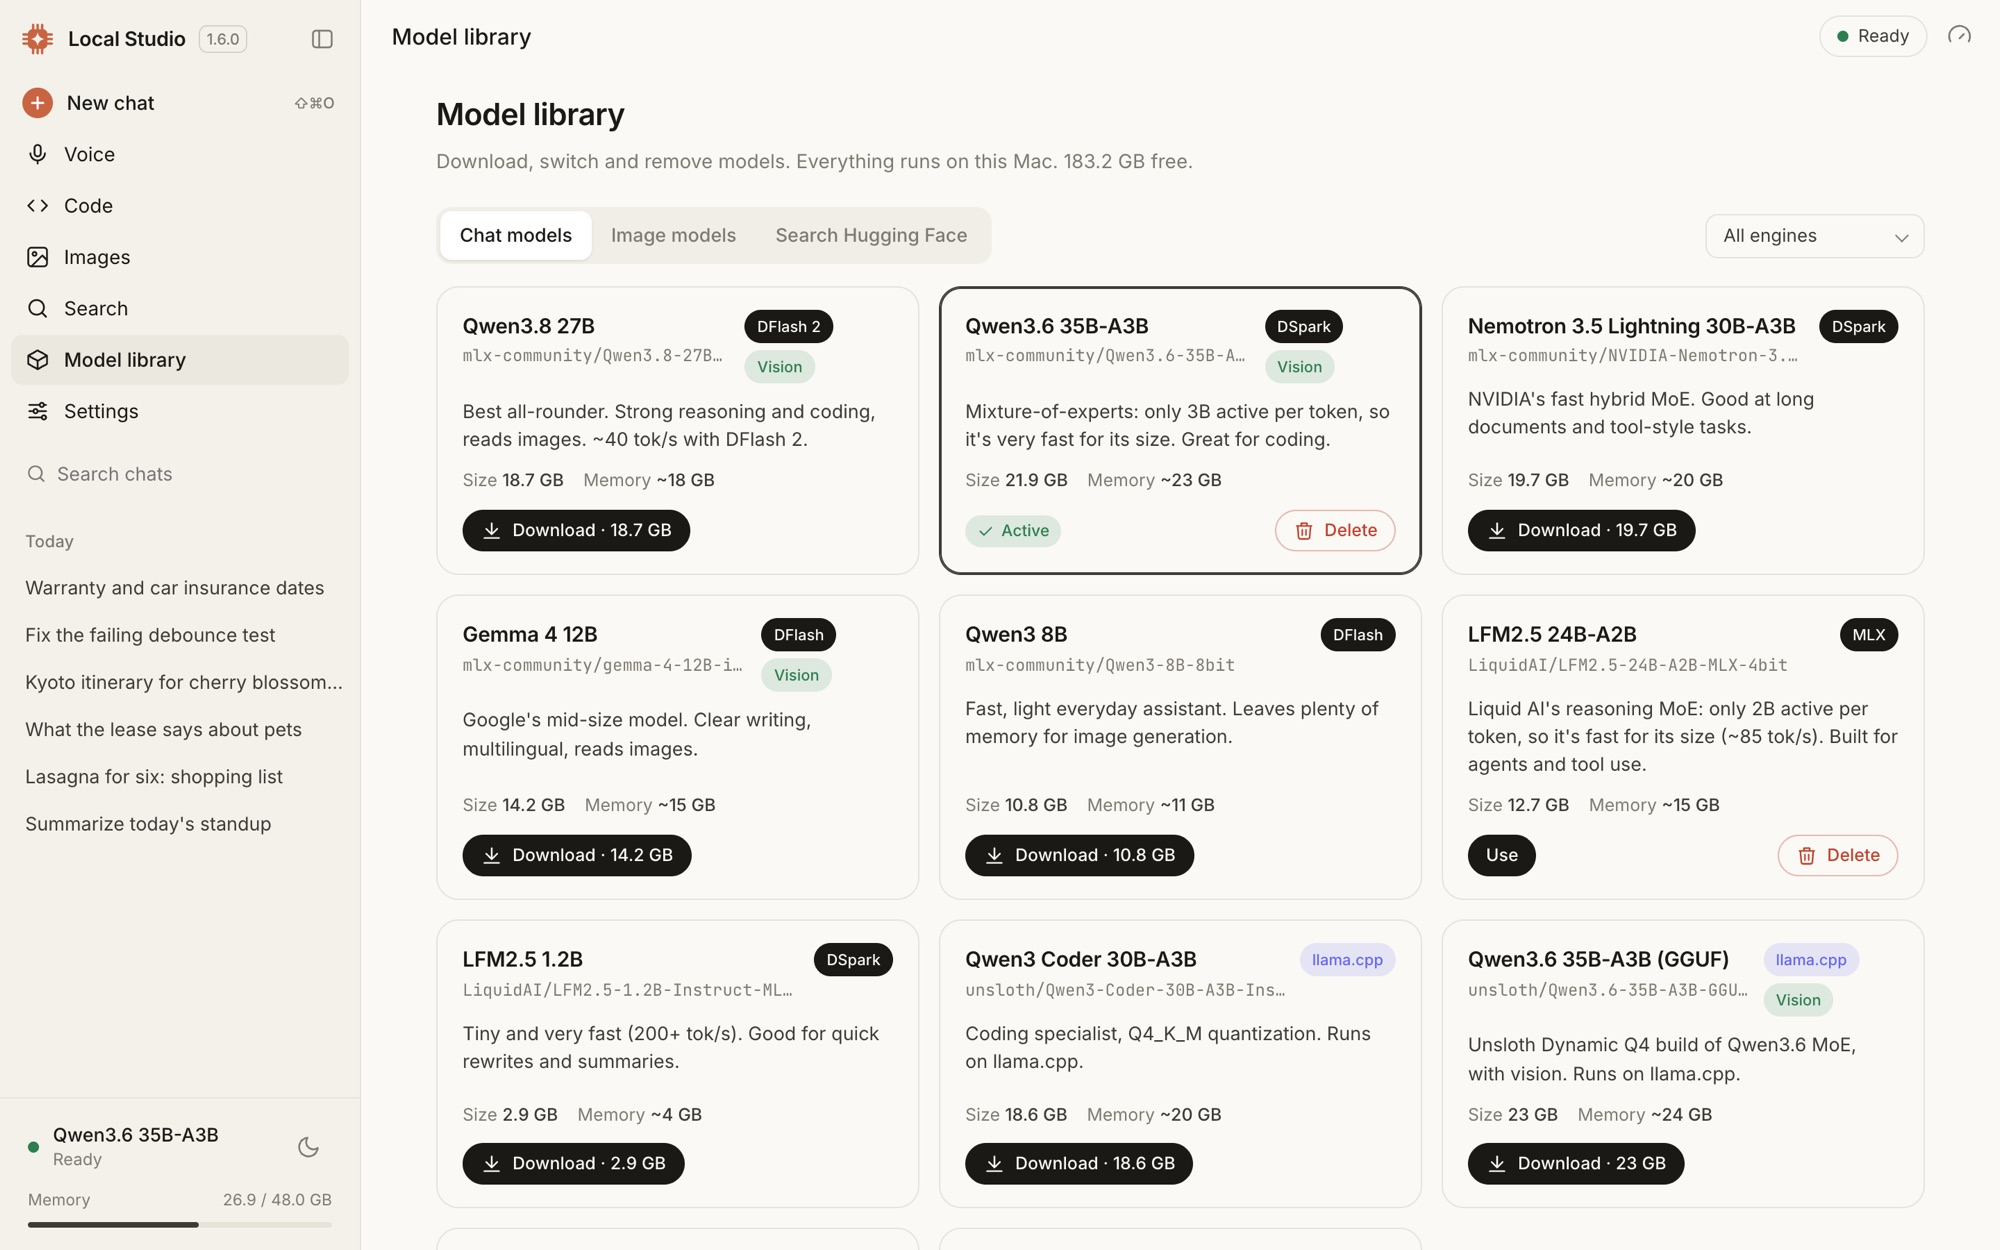
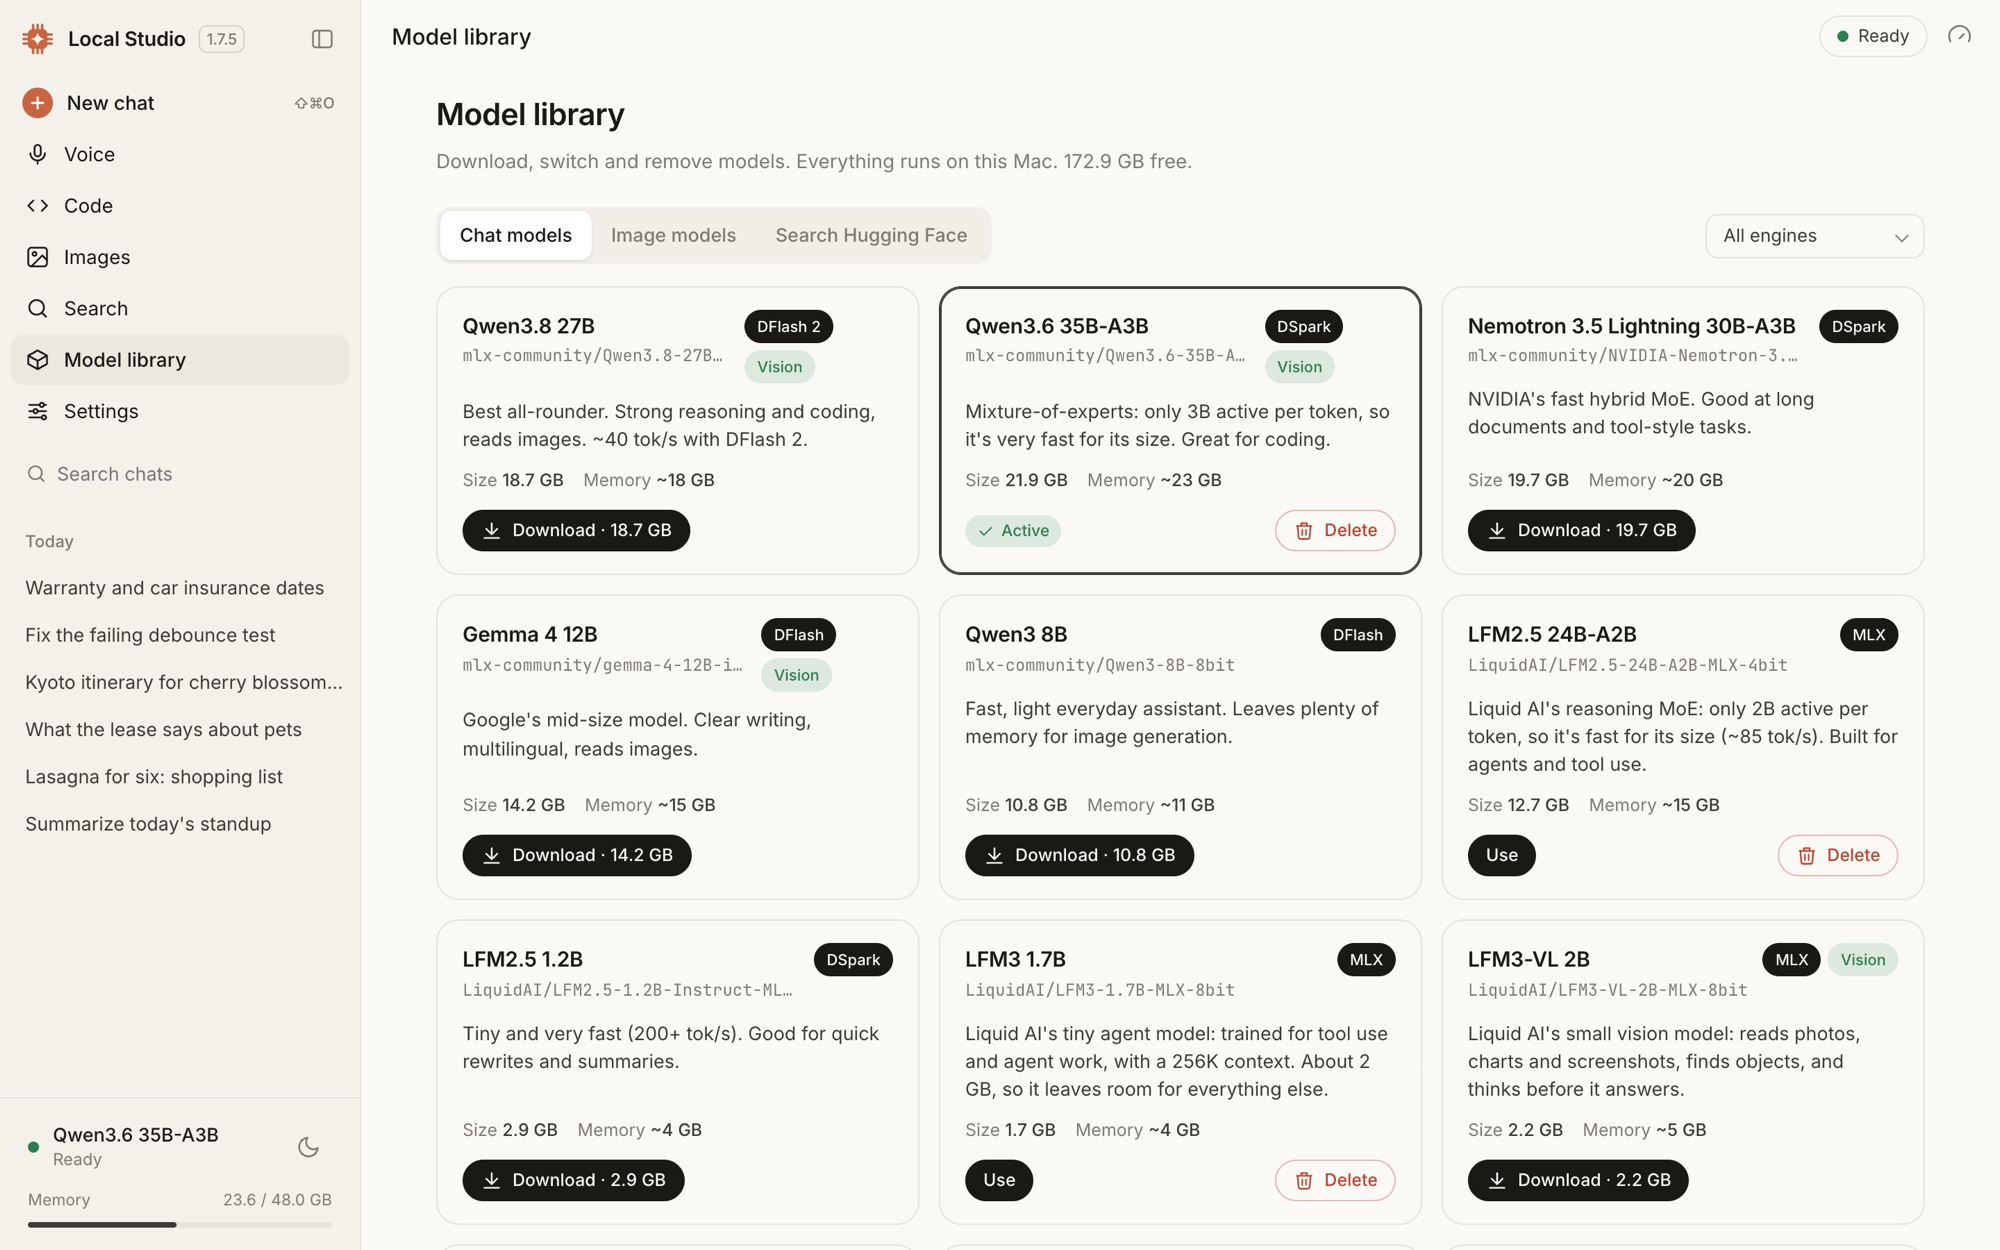
Local Studio 1.7.5: typed live-facts questions search first; README screenshots retaken
- With faster web answers on, a typed question that needs live facts runs its web search before the model answers
- Release notes carry everything since 1.7.2 (1.7.3 and 1.7.4 were not published as downloads)
- README: every screenshot retaken from the demo server at 1.7.5

diff --git a/app.py b/app.py
@@ -10,7 +10,7 @@ The backend lives in studio/. This file is the entrypoint that `uvicorn app:app`
 and the process patterns in stop.sh) and the module the check suites import.
 """
 # macos/build.sh and release.sh read the version from this line with sed; studio/config.py parses it from here too.
-APP_VERSION = "1.7.4"
+APP_VERSION = "1.7.5"
 
 from studio.main import app, owner_module as _owner_module  # noqa: E402,F401
 

diff --git a/README.md b/README.md
@@ -81,7 +81,7 @@ The [guide](docs/GUIDE.md) covers every tool, limit and setting.
 
 ## Install
 
-1. Download **Local-Studio-1.7.4.dmg** from the [latest release](https://github.com/vinoth12940/local-studio/releases/latest).
+1. Download **Local-Studio-1.7.5.dmg** from the [latest release](https://github.com/vinoth12940/local-studio/releases/latest).
 2. Open it and drag **Local Studio** to **Applications**.
 3. Open Local Studio and click **Install**. It sets up the engines: about 3 GB and a few minutes, with no Terminal,
    Homebrew or Xcode.
